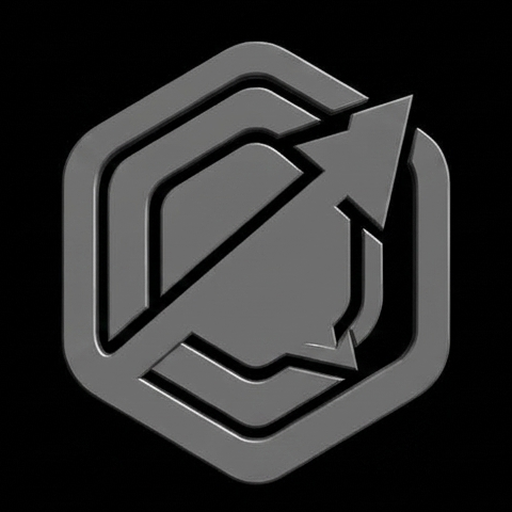
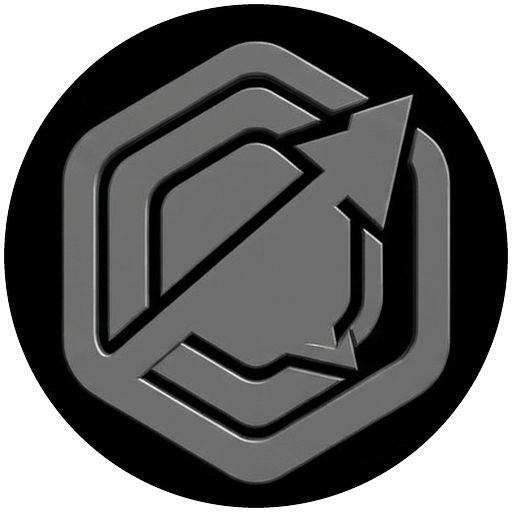
Round the brand mark and polish chat composer

Changed region(s): [[0.0, 0.0, 1.0, 1.0]]

diff --git a/script.js b/script.js
@@ -111,6 +111,7 @@ const documentUpload = document.getElementById("documentUpload");
 // =======================================
 
 let currentUserId = null;
+let currentUserName = "You";
 let selectedImage = null;
 let isSending = false;
 let activeRequestController = null;
@@ -124,6 +125,8 @@ const CHAT_MESSAGE_MARKER = "--message--";
 function updateSidebarAccount(user) {
     const displayName = user?.displayName || "Your account";
     const photoUrl = user?.photoURL || "";
+    const accountLabel = user?.displayName?.trim() || user?.email?.split("@")[0] || "You";
+    currentUserName = accountLabel.split(/\s+/)[0] || "You";
 
     if (sidebarUserName) sidebarUserName.textContent = displayName;
     if (sidebarUserEmail) sidebarUserEmail.textContent = user?.email || "Sign in to sync your chats";
@@ -445,12 +448,8 @@ function openChat(chatId) {
         emptyState.className = "empty-chat-state";
 
         const heading = document.createElement("strong");
-        heading.textContent = "A clear page for a new idea.";
+        heading.textContent = `Ready to Give a Kick Start, ${currentUserName}?`;
         emptyState.appendChild(heading);
-
-        const copy = document.createElement("p");
-        copy.textContent = "Ask Cadence AI anything to get started.";
-        emptyState.appendChild(copy);
 
         chat.appendChild(emptyState);
     } else {
@@ -1034,7 +1033,57 @@ async function aiReply(text, image, savedMessageId, signal, chatId) {
 // SEND MESSAGE
 // =======================================
 
-async function sendMessage() {
+function animatePromptToMessage(sourceRect, message, text) {
+    const reduceMotion = window.matchMedia?.("(prefers-reduced-motion: reduce)").matches;
+    if (!sourceRect || !message || !text || reduceMotion || !Element.prototype.animate) return;
+
+    const targetRect = message.getBoundingClientRect();
+    if (!targetRect.width || !targetRect.height) return;
+
+    const flight = document.createElement("div");
+    const flightText = text.replace(/\s+/g, " ").trim();
+    flight.className = "sent-message-flight";
+    flight.textContent = flightText.length > 180
+        ? `${flightText.slice(0, 177)}…`
+        : flightText;
+
+    const flightWidth = Math.min(Math.max(sourceRect.width, 220), 440);
+    flight.style.left = `${sourceRect.left}px`;
+    flight.style.top = `${sourceRect.top}px`;
+    flight.style.width = `${flightWidth}px`;
+    document.body.appendChild(flight);
+
+    const scale = Math.min(1, targetRect.width / flightWidth);
+    const offsetX = targetRect.left - sourceRect.left;
+    const offsetY = targetRect.top - sourceRect.top;
+    message.classList.add("message-flight-pending");
+
+    const animation = flight.animate(
+        [
+            { transform: "translate(0, 0) scale(1)", opacity: 0.96 },
+            {
+                transform: `translate(${offsetX}px, ${offsetY}px) scale(${scale})`,
+                opacity: 0.15
+            }
+        ],
+        {
+            duration: 560,
+            easing: "cubic-bezier(.2, .78, .25, 1)",
+            fill: "forwards"
+        }
+    );
+
+    const finishAnimation = () => {
+        flight.remove();
+        message.classList.remove("message-flight-pending");
+        message.classList.add("message-flight-arrived");
+        window.setTimeout(() => message.classList.remove("message-flight-arrived"), 240);
+    };
+
+    animation.finished.then(finishAnimation, finishAnimation);
+}
+
+async function sendMessage({ animateFromComposer = false } = {}) {
 
     if (isSending) return;
 
@@ -1047,6 +1096,9 @@ async function sendMessage() {
     const requestChatId = activeChatId;
 
     const text = input.value.trim();
+    const composerRect = animateFromComposer && input
+        ? input.getBoundingClientRect()
+        : null;
 
     const imageToSend = selectedImage;
 
@@ -1112,9 +1164,14 @@ async function sendMessage() {
 
         }
 
+        chat.querySelector(".empty-chat-state")?.remove();
         chat.appendChild(message);
 
         chat.scrollTop = chat.scrollHeight;
+
+        if (text && composerRect) {
+            animatePromptToMessage(composerRect, message, text);
+        }
 
         // -----------------------------
         // CLEAR INPUT
@@ -1183,7 +1240,7 @@ async function sendMessage() {
 
 if (send) {
 
-    send.addEventListener("click", sendMessage);
+    send.addEventListener("click", () => sendMessage({ animateFromComposer: true }));
 
 }
 

diff --git a/style.css b/style.css
@@ -2225,6 +2225,84 @@ footer {
         height: 52px !important;
     }
 }
+
+/* Circular brand mark and calm, glowing composer */
+.brand-logo {
+    overflow: hidden;
+    border-radius: 50% !important;
+}
+
+.brand-logo img {
+    border-radius: 50%;
+    object-fit: cover;
+}
+
+.input-container {
+    position: relative;
+    isolation: isolate;
+    border-color: var(--border);
+    background: var(--bg) !important;
+    box-shadow: 0 8px 35px rgba(0, 0, 0, .2);
+}
+
+.input-container::before {
+    position: absolute;
+    z-index: -1;
+    inset: -17px -20px;
+    border-radius: 30px;
+    background:
+        radial-gradient(ellipse at 24% 50%, rgba(255, 121, 0, .28), transparent 54%),
+        radial-gradient(ellipse at 78% 50%, rgba(149, 105, 255, .2), transparent 52%);
+    content: "";
+    filter: blur(24px);
+    opacity: .65;
+    pointer-events: none;
+    transition: opacity .25s, transform .25s;
+}
+
+.input-container:focus-within::before {
+    opacity: .95;
+    transform: scale(1.025);
+}
+
+.sent-message-flight {
+    position: fixed;
+    z-index: 1000;
+    max-height: 100px;
+    overflow: hidden;
+    padding: 12px 16px;
+    border: 1px solid var(--border);
+    border-radius: 18px;
+    background: var(--user);
+    color: var(--text);
+    box-shadow: 0 16px 40px rgba(0, 0, 0, .3), 0 0 22px var(--orange-glow);
+    font-size: 14px;
+    line-height: 1.55;
+    overflow-wrap: anywhere;
+    pointer-events: none;
+    transform-origin: top left;
+    will-change: transform, opacity;
+}
+
+.message-flight-pending {
+    visibility: hidden;
+}
+
+.message-flight-arrived {
+    animation: message-arrive .22s ease-out both;
+}
+
+@keyframes message-arrive {
+    from {
+        opacity: 0;
+        transform: translateY(6px);
+    }
+
+    to {
+        opacity: 1;
+        transform: translateY(0);
+    }
+}
 #imagePreview {
     animation: none !important;
     transition: none !important;
@@ -2565,11 +2643,13 @@ body:not(.dark) textarea {
 
 .empty-chat-state strong {
     display: block;
-    margin-bottom: 8px;
+    max-width: 720px;
+    margin-bottom: 0;
     color: var(--text);
-    font-size: clamp(17px, 2vw, 21px);
+    font-size: clamp(24px, 4vw, 38px);
     font-weight: 600;
     letter-spacing: -.035em;
+    line-height: 1.15;
 }
 
 .empty-chat-state p {

diff --git a/index.html b/index.html
@@ -10,7 +10,7 @@
 
     <meta name="description" content="Cadence AI — Your intelligent AI assistant.">
 
-    <link rel="icon" type="image/png" href="./cadencea-mark.png">
+    <link rel="icon" type="image/png" href="./cadencea-mark.png?v=2">
 
     <link rel="preconnect" href="https://fonts.googleapis.com">
     <link rel="preconnect" href="https://fonts.gstatic.com" crossorigin>
@@ -127,7 +127,7 @@
 
                 <div class="brand-logo">
                     <img
-                        src="./cadencea-mark.png"
+                        src="./cadencea-mark.png?v=2"
                         alt="Cadencea AI logo">
                 </div>
 
